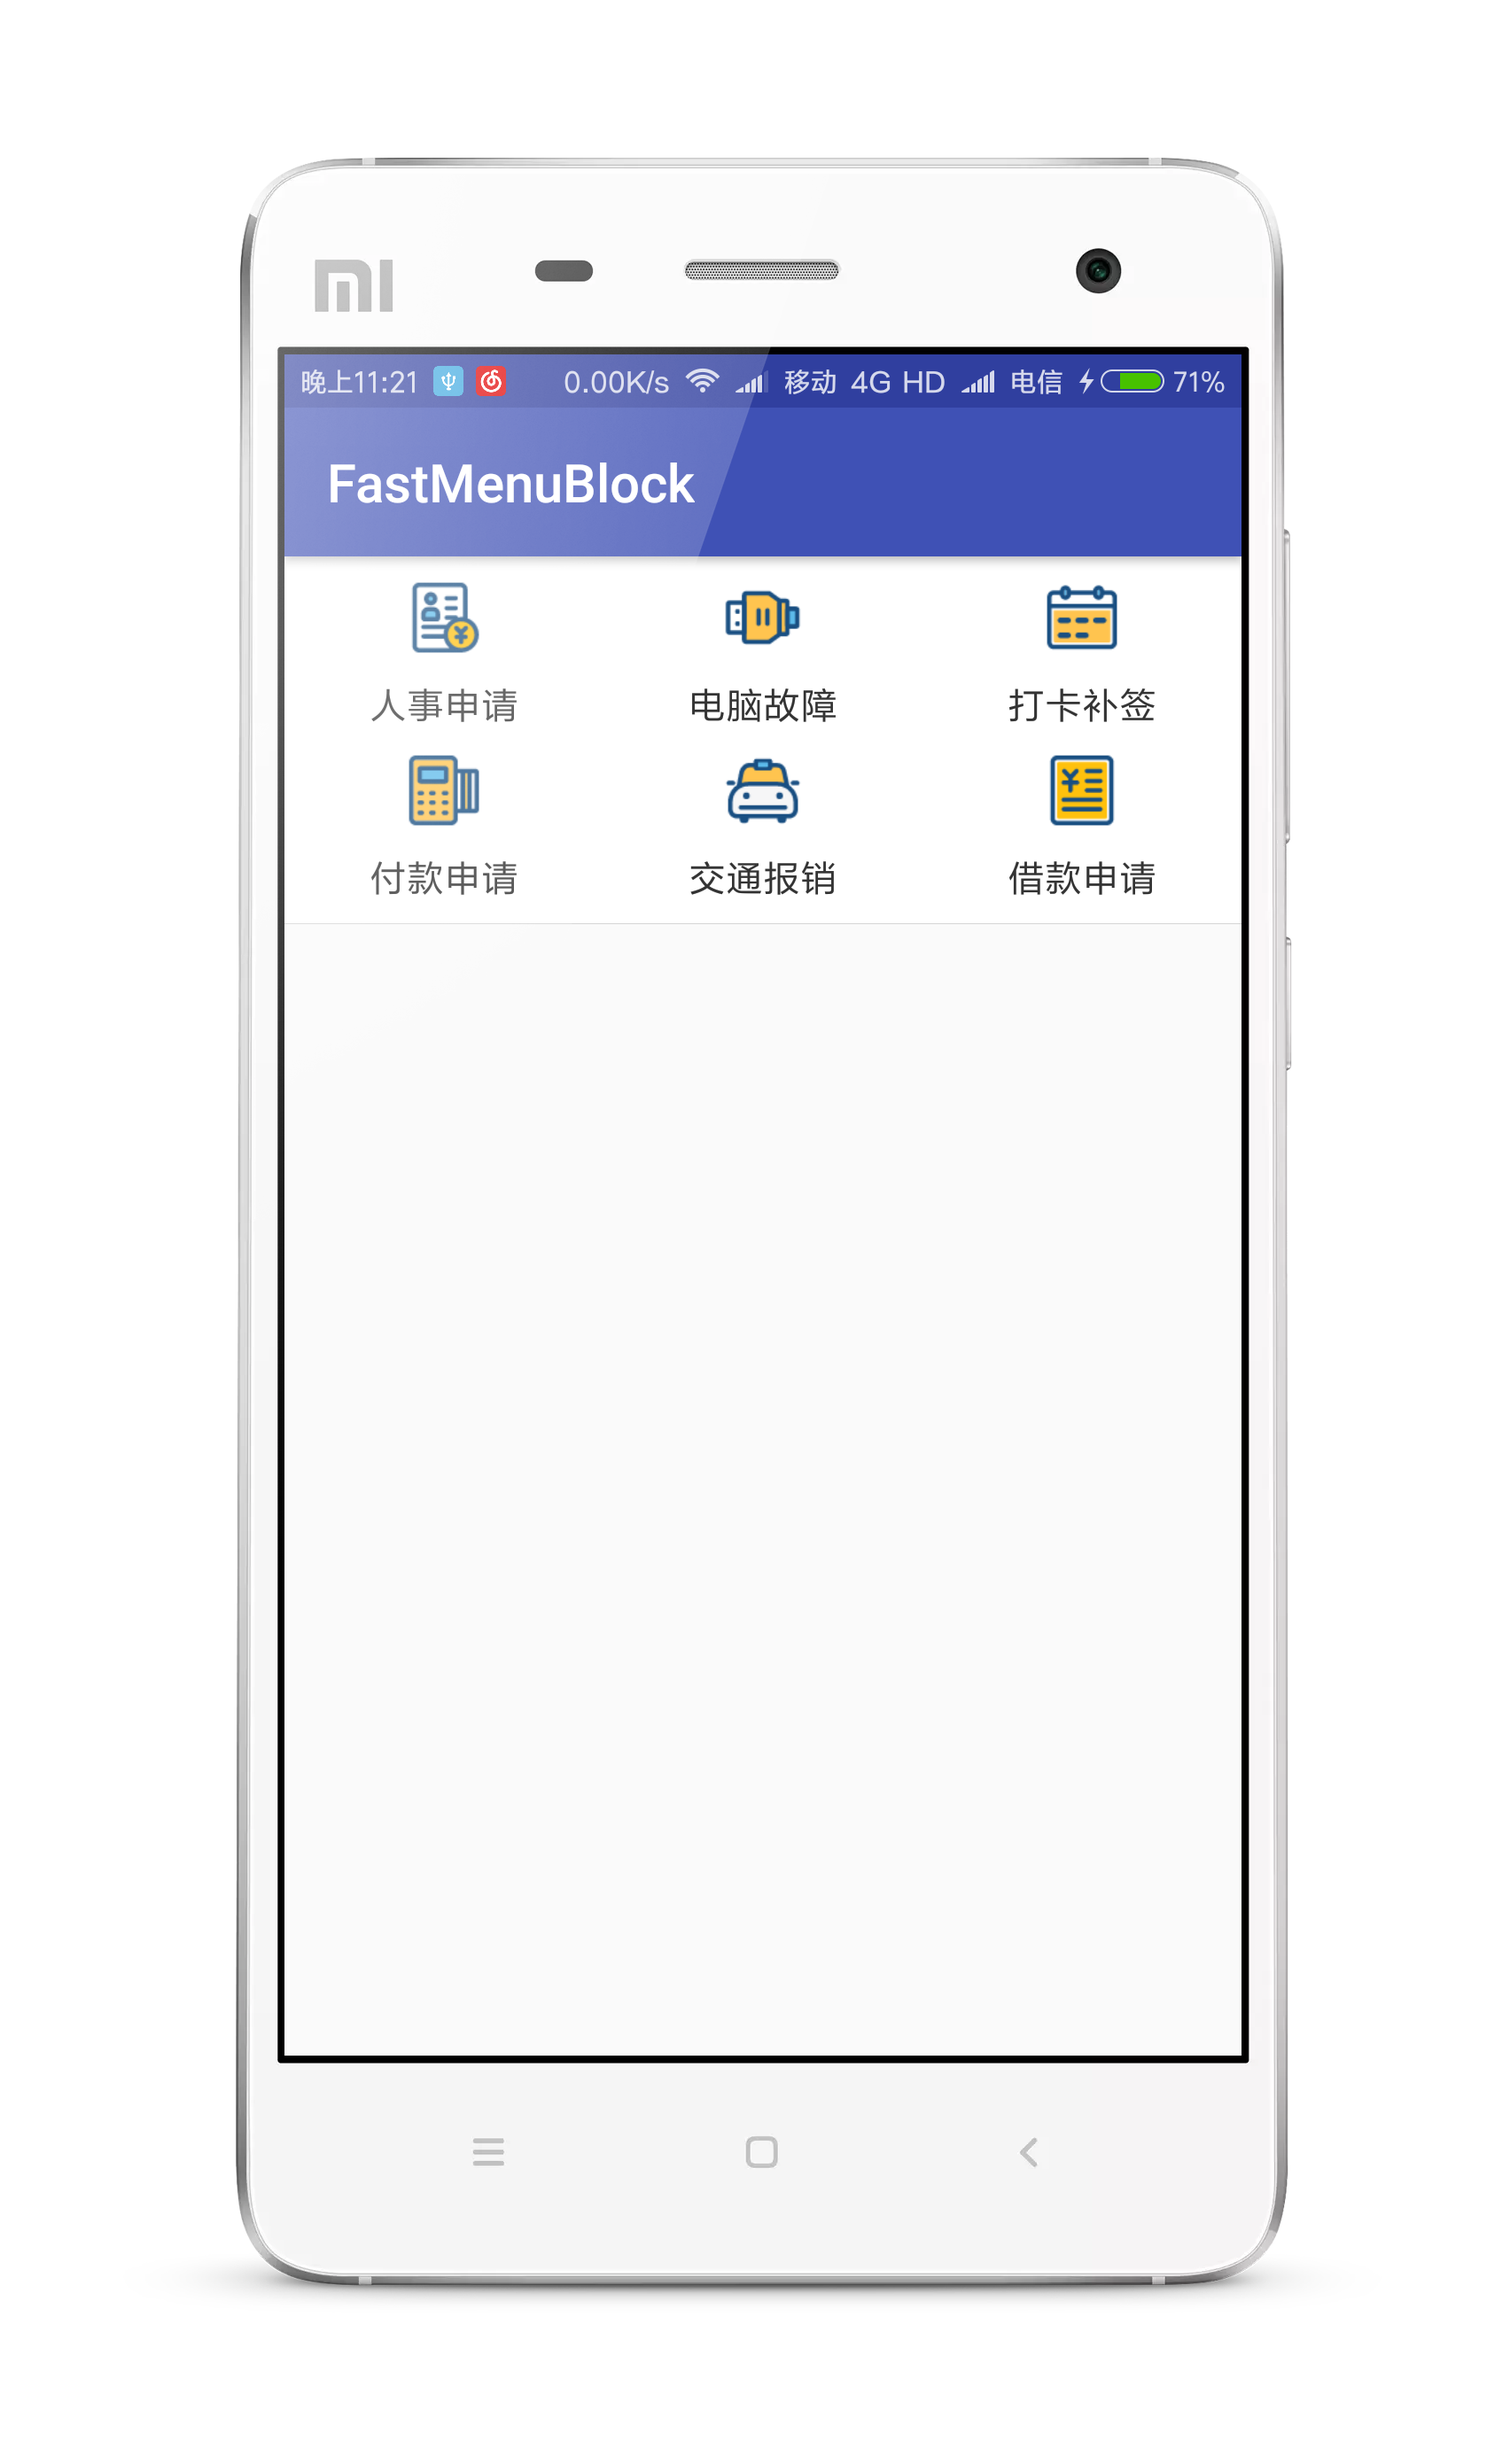
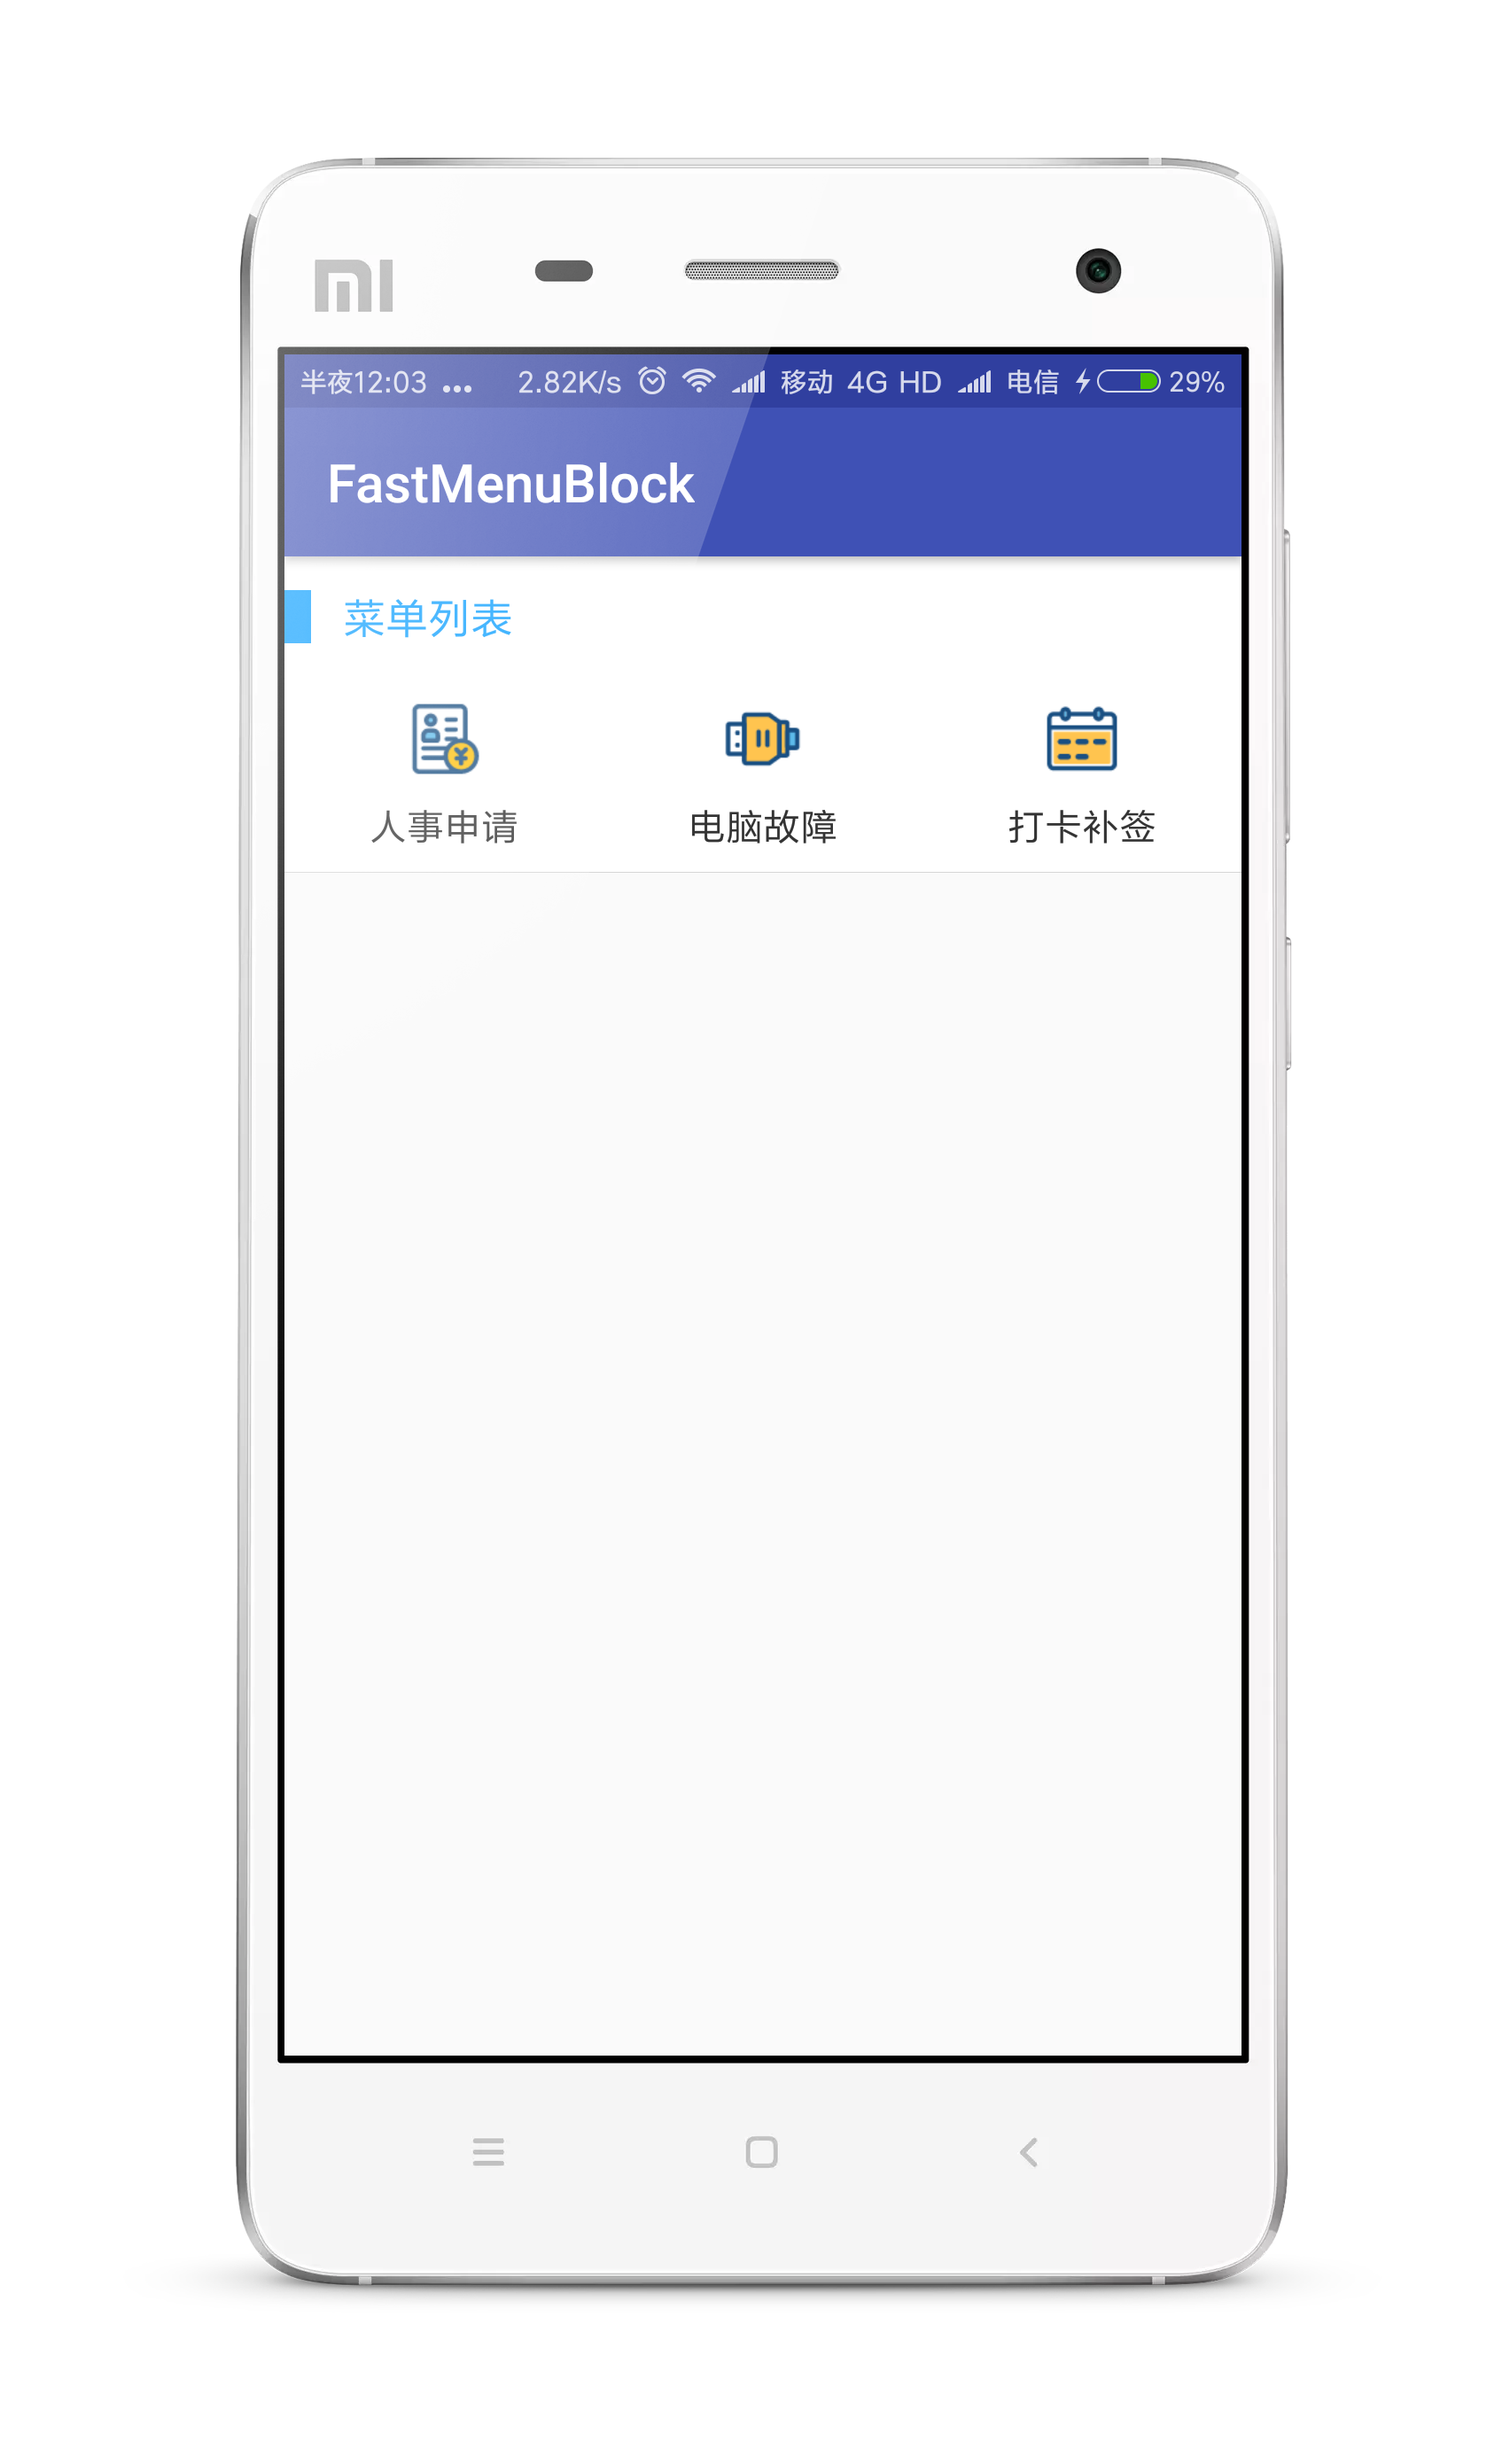
1.0.2

diff --git a/library/src/main/java/com/handsome/menublock/FastMenuBlock.java b/library/src/main/java/com/handsome/menublock/FastMenuBlock.java
@@ -29,7 +29,7 @@ import java.util.concurrent.Executors;
  * 2017/12/6.
  */
 
-public class FastMenuBlock extends RelativeLayout implements View.OnClickListener {
+public class FastMenuBlock extends LinearLayout implements View.OnClickListener {
 
     private SparseArray<View> views;
     private View fmb_view;
@@ -62,15 +62,23 @@ public class FastMenuBlock extends RelativeLayout implements View.OnClickListene
     private List<ImageView> fmb_list_icon;
     private List<TextView> fmb_list_title;
 
-    private int fmb_type;
     private int fmb_title_size = 12;
     private int fmb_icon_size = 42;
     private int fmb_gap = 2;
+
+    private int fmb_type = TYPE.TYPE_THREE;
 
     interface TYPE {
         int TYPE_THREE = 6;
         int TYPE_FOUR = 8;
         int TYPE_FIVE = 10;
+    }
+
+    private int fmb_line = LINE.LINE_TWO;
+
+    interface LINE {
+        int LINE_ONE = 1;
+        int LINE_TWO = 2;
     }
 
     public FastMenuBlock(Context context) {
@@ -83,6 +91,8 @@ public class FastMenuBlock extends RelativeLayout implements View.OnClickListene
 
     public FastMenuBlock(Context context, AttributeSet attrs, int defStyleAttr) {
         super(context, attrs, defStyleAttr);
+
+        this.setOrientation(VERTICAL);
 
         mCachedThreadPool = Executors.newCachedThreadPool();
 
@@ -98,6 +108,7 @@ public class FastMenuBlock extends RelativeLayout implements View.OnClickListene
     private void initAttrs(Context context, AttributeSet attrs, int defStyleAttr) {
         TypedArray ta = context.obtainStyledAttributes(attrs, R.styleable.FastMenuBlock, defStyleAttr, 0);
         fmb_type = ta.getInt(R.styleable.FastMenuBlock_fmb_type, TYPE.TYPE_THREE);
+        fmb_line = ta.getInt(R.styleable.FastMenuBlock_fmb_line, LINE.LINE_TWO);
         fmb_title_size = (int) ta.getDimension(R.styleable.FastMenuBlock_fmb_title_size, dp2px(fmb_title_size));
         fmb_icon_size = (int) ta.getDimension(R.styleable.FastMenuBlock_fmb_icon_size, dp2px(fmb_icon_size));
         fmb_gap = (int) ta.getDimension(R.styleable.FastMenuBlock_fmb_gap, dp2px(fmb_gap));
@@ -107,6 +118,8 @@ public class FastMenuBlock extends RelativeLayout implements View.OnClickListene
     private void initRootViews(Context context) {
         views = new SparseArray<>();
         inflater = LayoutInflater.from(context);
+
+        // Type For FastMenuBlock
         if (fmb_type == TYPE.TYPE_THREE) {
             fmb_view = inflater.inflate(R.layout.fast_menu_block3, null);
         } else if (fmb_type == TYPE.TYPE_FOUR) {
@@ -114,6 +127,14 @@ public class FastMenuBlock extends RelativeLayout implements View.OnClickListene
         } else if (fmb_type == TYPE.TYPE_FIVE) {
             fmb_view = inflater.inflate(R.layout.fast_menu_block5, null);
         }
+
+        // Line For FastMenuBlock
+        if (fmb_line == LINE.LINE_ONE) {
+            fmb_view.findViewById(R.id.fmb_line_2).setVisibility(GONE);
+        } else if (fmb_line == LINE.LINE_TWO) {
+            fmb_view.findViewById(R.id.fmb_line_2).setVisibility(VISIBLE);
+        }
+
         addView(fmb_view);
     }
 
@@ -133,7 +154,14 @@ public class FastMenuBlock extends RelativeLayout implements View.OnClickListene
     public void setAdapter(FastMenuAdapter adapter) {
         this.mFastMenuAdapter = adapter;
 
+        setHeaderView();
         setFastMenuBlockView();
+    }
+
+    private void setHeaderView() {
+        if (mFastMenuAdapter.getHeaderView() != null) {
+            addView(mFastMenuAdapter.getHeaderView(), 0);
+        }
     }
 
     private void setFastMenuBlockView() {
@@ -151,7 +179,7 @@ public class FastMenuBlock extends RelativeLayout implements View.OnClickListene
                 }
 
                 fmb_list_title.get(i).setText(mFastMenuAdapter.getTitle(i));
-                fmb_list_title.get(i).setTextSize(TypedValue.COMPLEX_UNIT_PX,fmb_title_size);
+                fmb_list_title.get(i).setTextSize(TypedValue.COMPLEX_UNIT_PX, fmb_title_size);
                 fmb_list_title.get(i).setPadding(0, fmb_gap, 0, 0);
                 fmb_list_ly.get(i).setTag(i);
                 fmb_list_ly.get(i).setOnClickListener(this);

diff --git a/sample/src/main/java/com/handsome/fastmenublock/OfficeActivity.java b/sample/src/main/java/com/handsome/fastmenublock/OfficeActivity.java
@@ -2,6 +2,8 @@ package com.handsome.fastmenublock;
 
 import android.support.v7.app.AppCompatActivity;
 import android.os.Bundle;
+import android.view.LayoutInflater;
+import android.view.View;
 import android.widget.Toast;
 
 import com.handsome.menublock.FastMenuAdapter;
@@ -9,9 +11,8 @@ import com.handsome.menublock.FastMenuBlock;
 
 public class OfficeActivity extends AppCompatActivity {
 
-    private int[] images = {R.drawable.icon_office1, R.drawable.icon_office2, R.drawable.icon_office3,
-            R.drawable.icon_office4, R.drawable.icon_office5, R.drawable.icon_office6};
-    private String[] title = {"人事申请", "电脑故障", "打卡补签", "付款申请", "交通报销", "借款申请"};
+    private int[] images = {R.drawable.icon_office1, R.drawable.icon_office2, R.drawable.icon_office3};
+    private String[] title = {"人事申请", "电脑故障", "打卡补签"};
 
     @Override
     protected void onCreate(Bundle savedInstanceState) {
@@ -38,6 +39,11 @@ public class OfficeActivity extends AppCompatActivity {
             @Override
             public void onClick(int position) {
                 Toast.makeText(OfficeActivity.this, "position:" + position, Toast.LENGTH_SHORT).show();
+            }
+
+            @Override
+            public View getHeaderView() {
+                return LayoutInflater.from(OfficeActivity.this).inflate(R.layout.view_office_header, null);
             }
         });
     }

diff --git a/sample/src/main/java/com/handsome/fastmenublock/ELemeActivity.java b/sample/src/main/java/com/handsome/fastmenublock/ELemeActivity.java
@@ -2,6 +2,8 @@ package com.handsome.fastmenublock;
 
 import android.support.v7.app.AppCompatActivity;
 import android.os.Bundle;
+import android.view.LayoutInflater;
+import android.view.View;
 import android.widget.Toast;
 
 import com.handsome.menublock.FastMenuAdapter;
@@ -46,6 +48,7 @@ public class ELemeActivity extends AppCompatActivity {
             public void onClick(int position) {
                 Toast.makeText(ELemeActivity.this, "position:" + position, Toast.LENGTH_SHORT).show();
             }
+
         });
     }
 }

diff --git a/library/src/main/java/com/handsome/menublock/FastMenuAdapter.java b/library/src/main/java/com/handsome/menublock/FastMenuAdapter.java
@@ -1,5 +1,7 @@
 package com.handsome.menublock;
 
+import android.view.View;
+
 /**
  * =====作者=====
  * 许英俊
@@ -16,4 +18,8 @@ public abstract class FastMenuAdapter {
     public abstract String getTitle(int position);
 
     public abstract void onClick(int position);
+
+    public View getHeaderView() {
+        return null;
+    }
 }

diff --git a/README.md b/README.md
@@ -6,6 +6,13 @@ A simple, practical FastMenuBlock for Android.
 <img src="/preview/preview2.png" height="400px"></img>
 <img src="/preview/preview3.png" height="400px"></img>
 
+# Feature
+
+* 支持添加头部内容
+* 支持一行或两行的菜单
+* 支持三种不同数目的菜单
+* 支持本地资源或网络资源
+
 # Usage
 
 You can directly copy the layout file style using the sample project.
@@ -102,11 +109,22 @@ fmb.setAdapter(new FastMenuAdapter() {
 	public void onClick(int position) {
 		Toast.makeText(OfficeActivity.this, "position:" + position, Toast.LENGTH_SHORT).show();
 	}
+	
+	/**
+	 * Options:return your HeaderView
+	 */
+    @Override
+    public View getHeaderView() {
+        return LayoutInflater.from(OfficeActivity.this).inflate(R.layout.view_office_header, null);
+    }
 });
 ```
 
 # Changelog
 
+* 1.0.2
+    * Add attribute for fmb_line
+    * Add options method for FastMenuAdapter
 * 1.0.1
     * Change the package name
     * Modify the minSdkVersion 14
